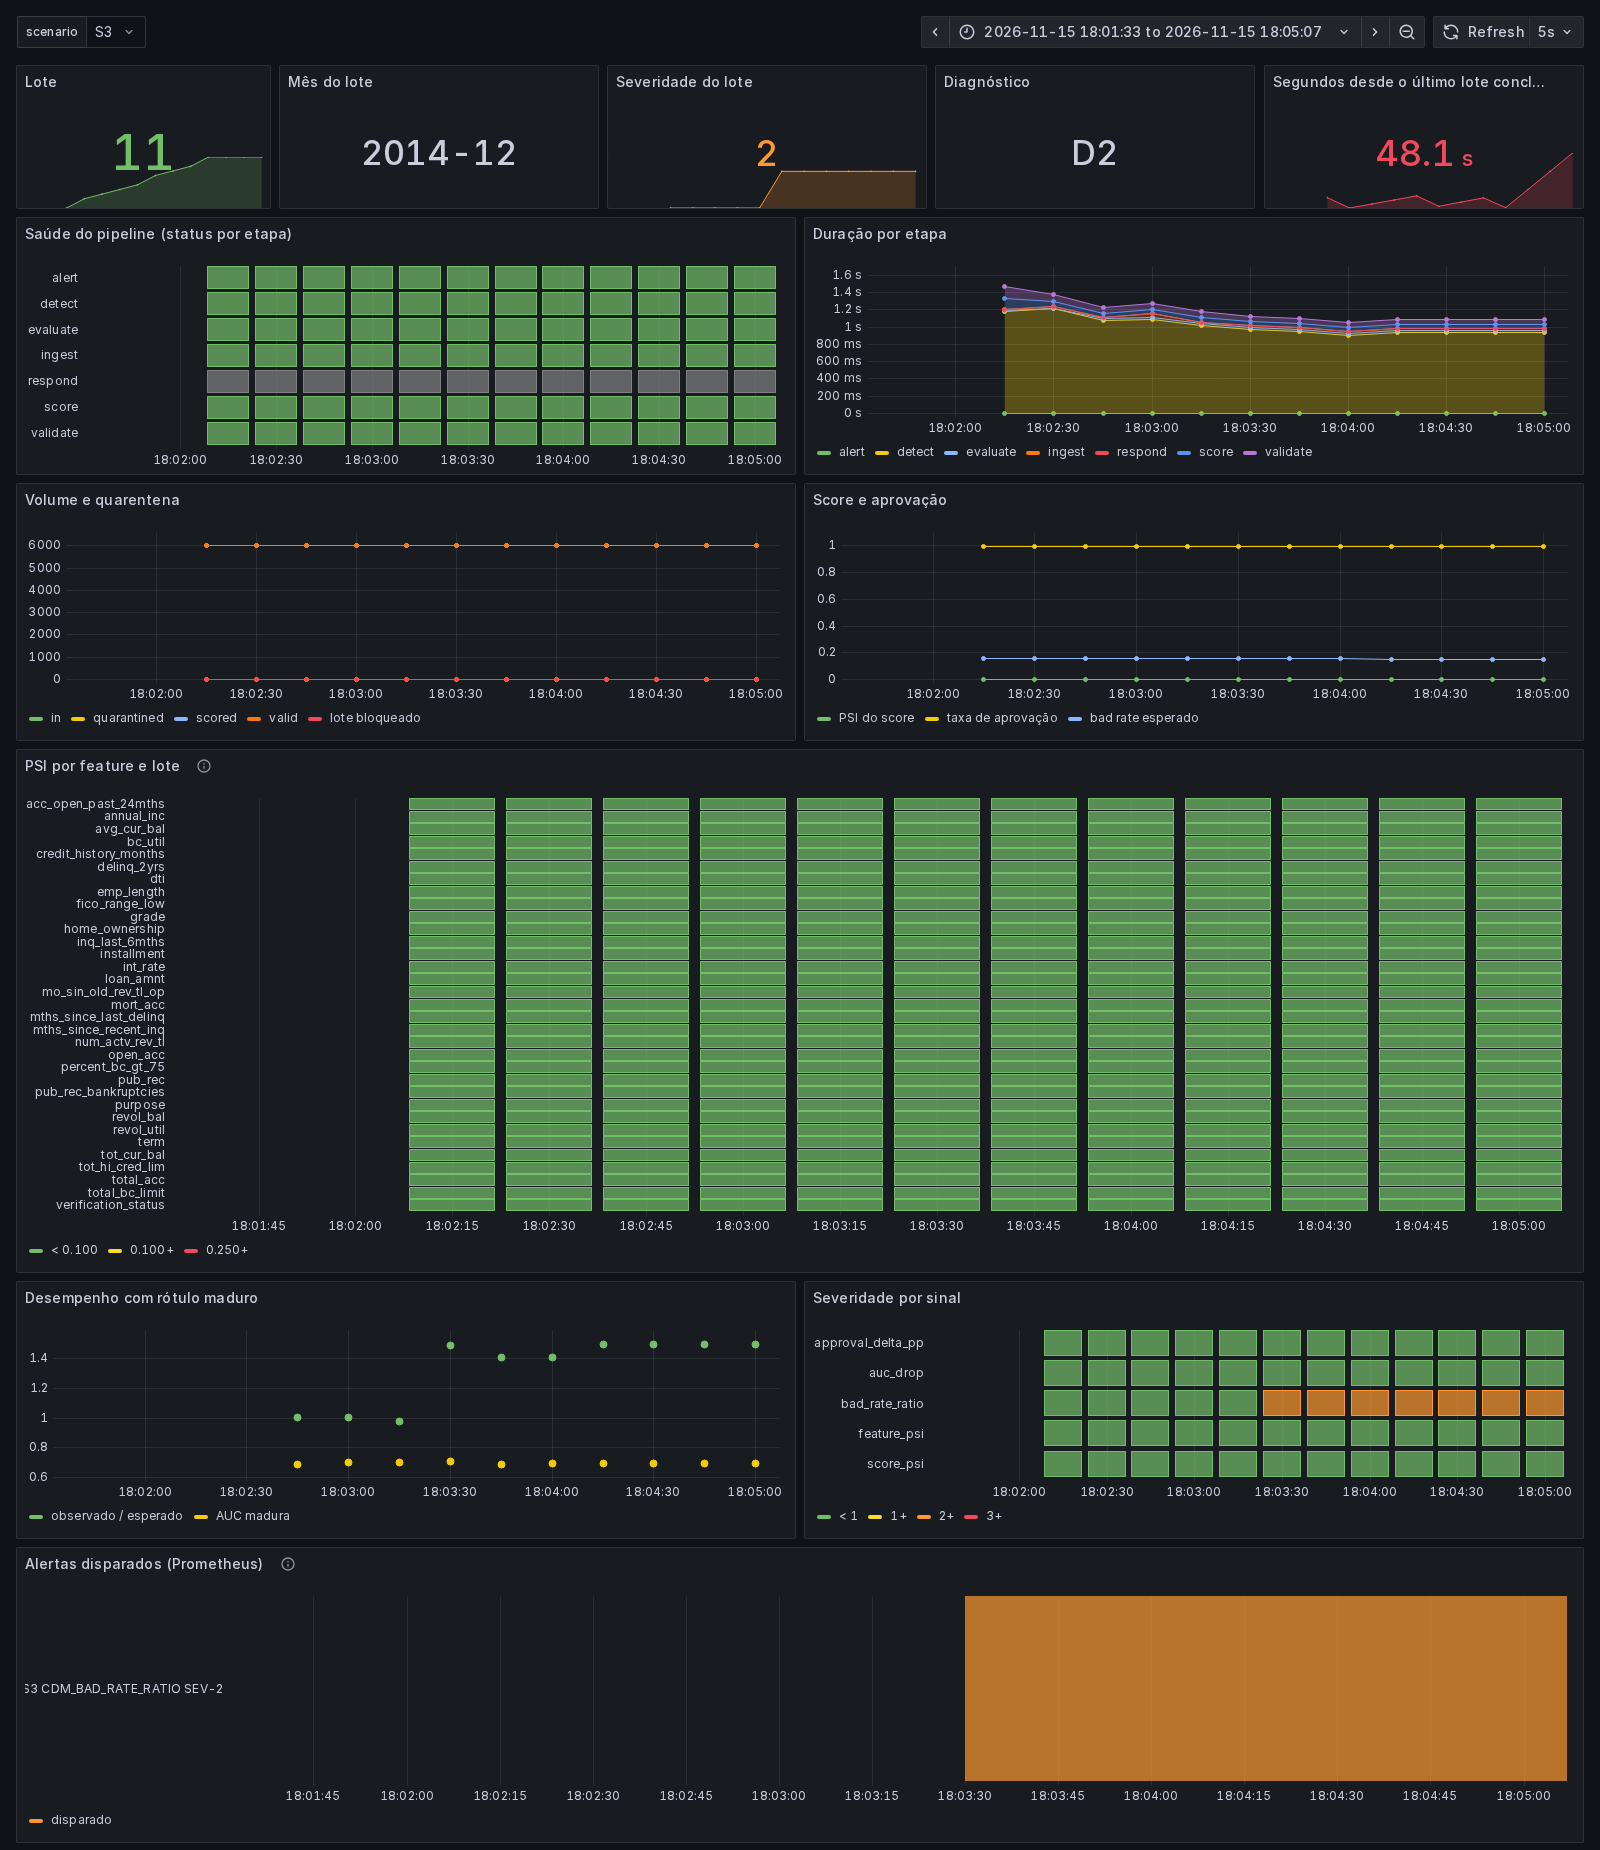
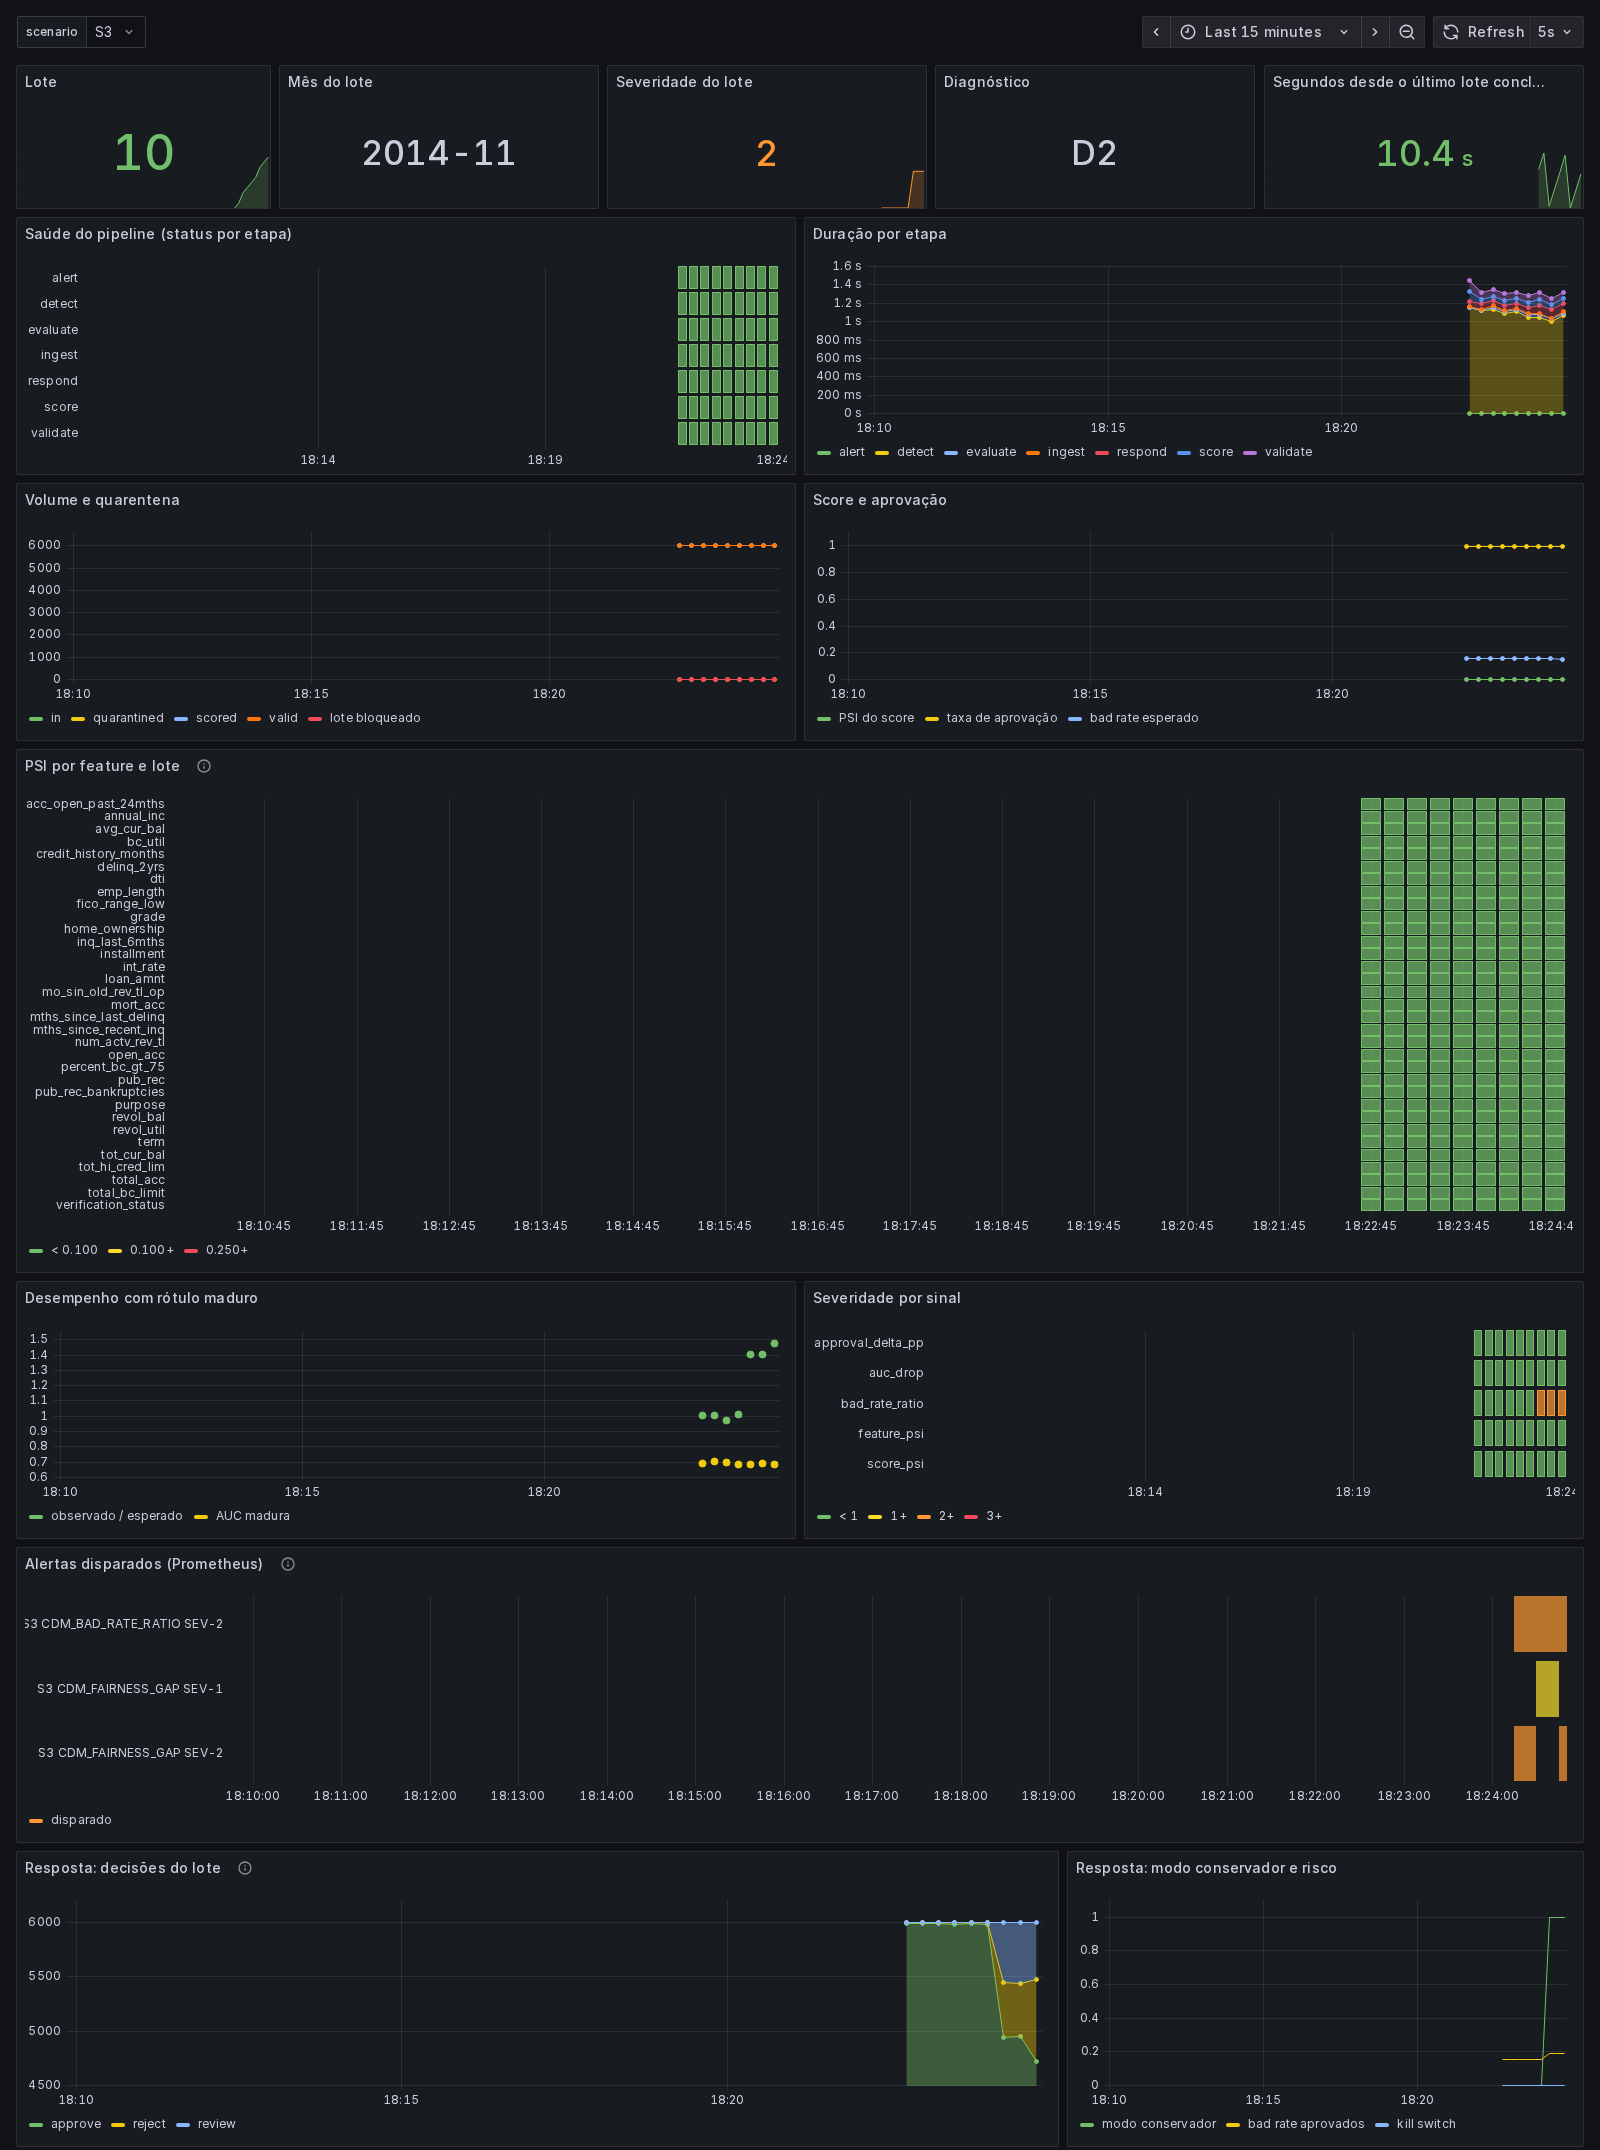
docs: registra replay do cenário S3 na stack recriada do zero com prints atualizados

diff --git a/docs/runs/INDEX.md b/docs/runs/INDEX.md
@@ -64,3 +64,4 @@ Observações humanas sobre os runs ficam na seção "Observações" de cada reg
 | [RUN-20261117-monitor-S0-01](RUN-20261117-monitor-S0-01.md) | 2026-11-17 | monitor | S0 | pipeline: 12 lotes · 0 bloqueados · 0 etapas com falha · alertas {} | sim |
 | [RUN-20261117-monitor-S1-01](RUN-20261117-monitor-S1-01.md) | 2026-11-17 | monitor | S1 | pipeline: 12 lotes · 0 bloqueados · 0 etapas com falha · alertas {'CDM_FEATURE_DRIFT': 'SEV-2', 'CDM_SCORE_DRIFT': 'SEV-1'} | sim |
 | [RUN-20261117-monitor-S2-01](RUN-20261117-monitor-S2-01.md) | 2026-11-17 | monitor | S2 | pipeline: 12 lotes · 0 bloqueados · 0 etapas com falha · alertas {'CDM_BAD_RATE_RATIO': 'SEV-2', 'CDM_FAIRNESS_GAP': 'SEV-1'} | sim |
+| [RUN-20261117-monitor-S3-01](RUN-20261117-monitor-S3-01.md) | 2026-11-17 | monitor | S3 | pipeline: 12 lotes · 0 bloqueados · 0 etapas com falha · alertas {'CDM_BAD_RATE_RATIO': 'SEV-2', 'CDM_FAIRNESS_GAP': 'SEV-2'} | sim |

diff --git a/docs/runs/RUN-20261117-monitor-S3-01.md b/docs/runs/RUN-20261117-monitor-S3-01.md
@@ -1,0 +1,39 @@
+# RUN-20261117-monitor-S3-01
+
+> Gerado por `src/reporting/run_record.py`. Não editar números à mão.
+
+| Campo | Valor |
+|---|---|
+| Data | 2026-11-17 18:24 |
+| Tipo | monitor |
+| Git SHA | `13ffc1206e219052a13eb07a824e66d8b4c500cb` |
+| Árvore limpa | sim |
+| Hash dos dados de entrada | `—` |
+| Cenário / seed | S3 / 0 |
+| Modelo | champion |
+| MLflow | experimento `monitoring` |
+| modo | replay |
+| push | True |
+
+## Métricas
+
+| Métrica | job |
+|---|---|
+| batches | 12 |
+| blocked | 0 |
+| duration_max_s | 2.2738 |
+| duration_p50_s | 2.0881 |
+| failed_steps | 0 |
+| first_alert_batch | 7 |
+
+## Artefatos
+
+- `logs/RUN-20261117-monitor-S3-01.jsonl`
+- `logs/RUN-20261117-monitor-S3-01.summary.json`
+
+## Veredito
+
+pipeline: 12 lotes · 0 bloqueados · 0 etapas com falha · alertas {'CDM_BAD_RATE_RATIO': 'SEV-2', 'CDM_FAIRNESS_GAP': 'SEV-2'}
+
+## Observações
+
